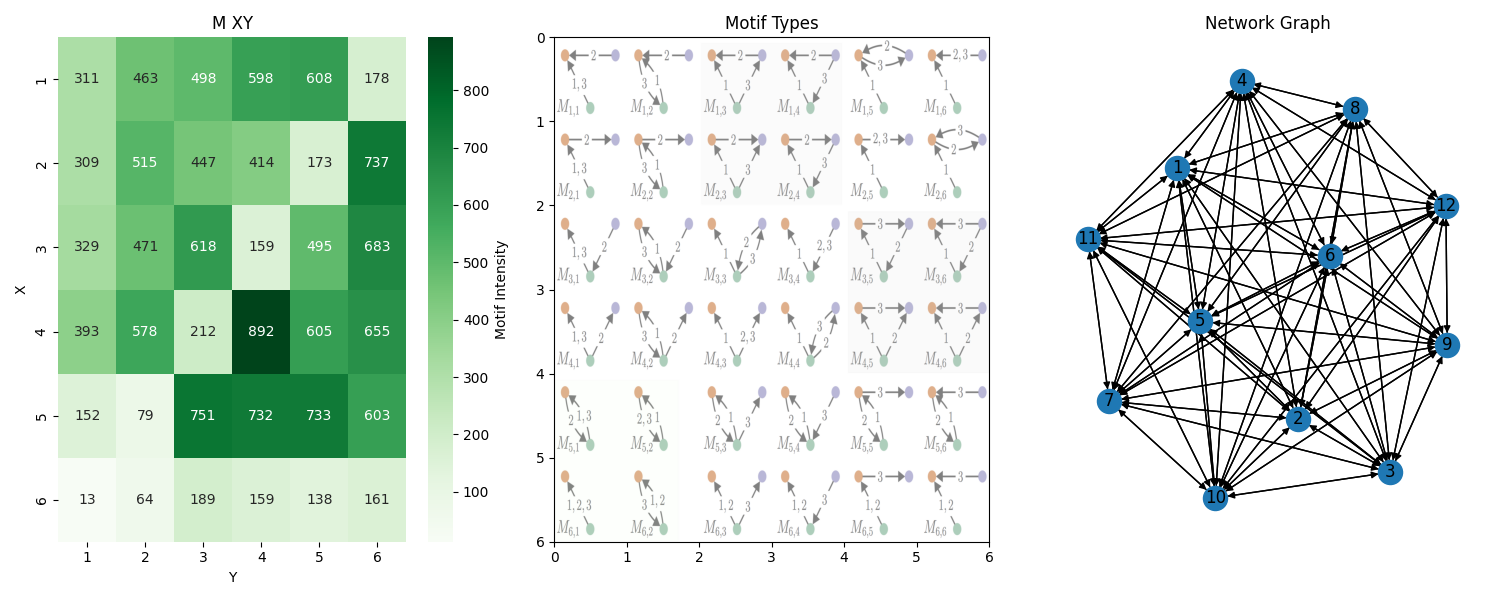
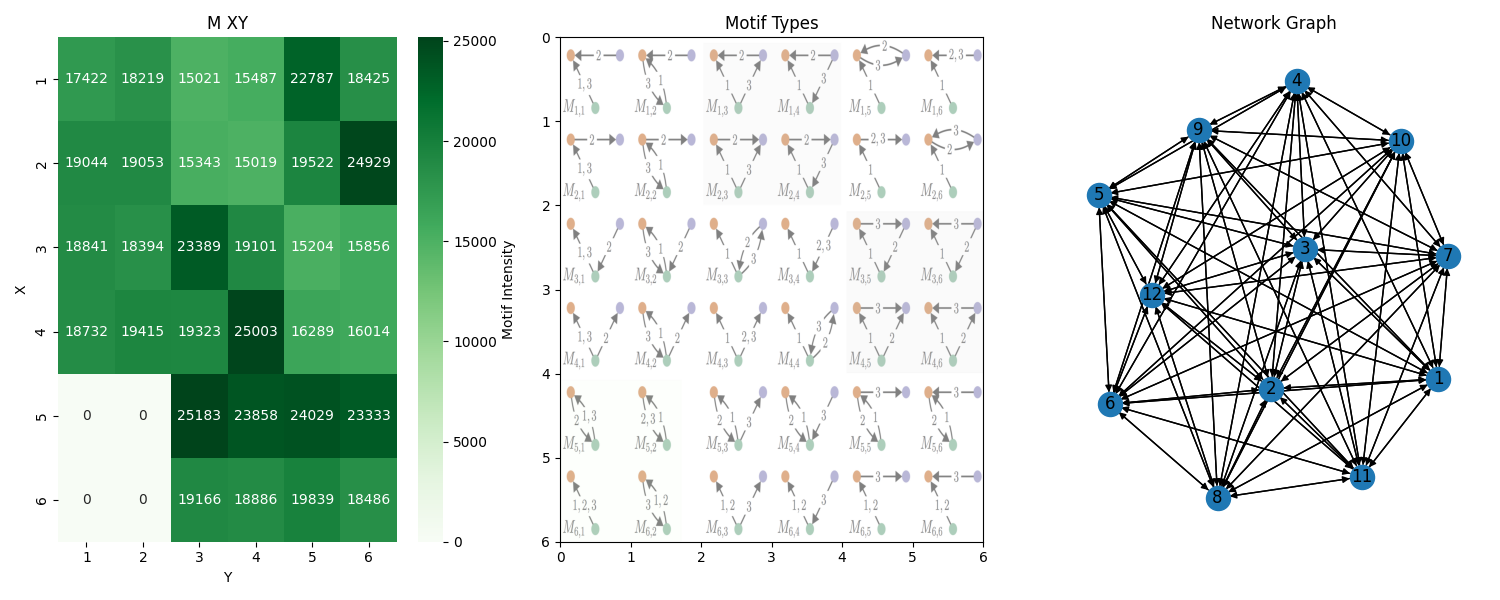
Visualization v3

diff --git a/motifi_v3.py b/motifi_v3.py
@@ -5,6 +5,12 @@ from multiprocessing.managers import BaseManager
 import time
 from read_csv import getEdges
 import argparse
+import networkx as nx
+import matplotlib.pyplot as plt
+import seaborn as sns
+from PIL import Image 
+
+edges=[]
 
 class Counter1D:
     def __init__(self, n=0):
@@ -942,4 +948,36 @@ if __name__ == "__main__":
     print(counts.data)
 
     end = time.time()
+
+    img = Image.open('Motif_background.png')
+    fig, (ax1, ax2, ax3) = plt.subplots(1, 3, figsize=(15, 6))
+    
+    heatmap = sns.heatmap(counts.data, cmap="Greens", annot=True, fmt=".0f", cbar_kws={'label': 'Motif Intensity'}, ax=ax1)                      
+    heatmap.set_xlabel("Y")
+    heatmap.set_ylabel("X")
+    ax1.set_title('M XY')  # Set title
+
+    ax1.set_xticklabels([str(x + 1) for x in range(6)])
+    ax1.set_yticklabels([str(y + 1) for y in range(6)])
+    plt.title('Motif Heatmap')
+    xlim, ylim = ax1.get_xlim(), ax1.get_ylim()
+    #cax = plt.axes([1, 0.9, 0.8, 0.8])
+    ax2.imshow(img, extent=xlim + ylim, aspect='auto', alpha=0.5)
+    ax2.set_title('Motif Types')
+    
+    G = nx.DiGraph()
+    
+    for edge, timestamp in edges:
+        G.add_edge(edge[0], edge[1], timestamp=timestamp)
+        
+    pos = nx.spring_layout(G)
+    nx.draw(G, pos, with_labels=True, ax=ax3)
+    ax3.set_title("Network Graph")
+    #plt.show()
+
+    plt.tight_layout()
+    
+    plt.savefig('plot.png')
+    plt.show()
+    
     print("Time to complete: ", end - start)
